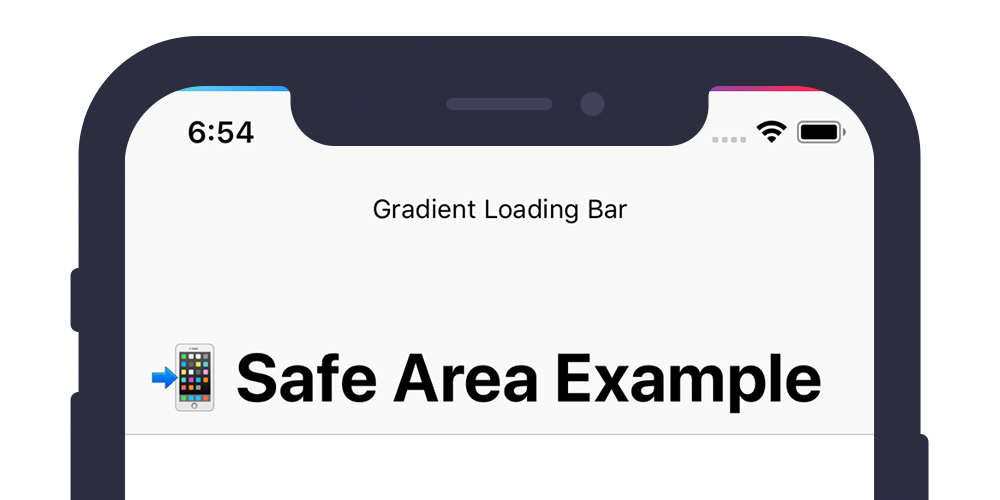
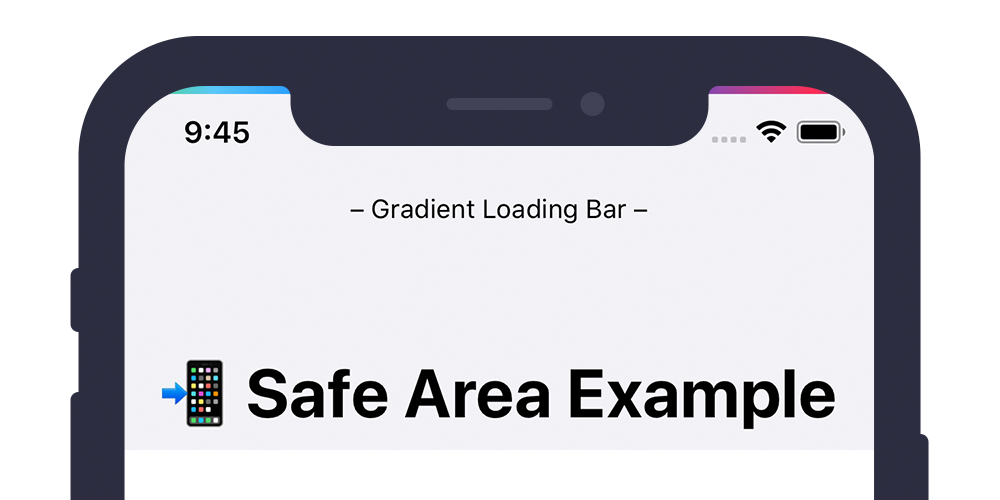
📝 :: Update screenshots and documentation with new `NotchGradientLoadingBar`

diff --git a/readme.md b/readme.md
@@ -143,6 +143,7 @@ let notchGradientLoadingBar = NotchGradientLoadingBar(
 )
 ```
 
+[![Example][notch-bar-example--thumbnail]][notch-bar-example]
 
 #### GradientActivityIndicatorView
 In case you don't want to add the loading bar onto the key-window, this framework provides the `GradientActivityIndicatorView`, which is a direct subclass of `UIView`. You can add the view to another view either inside the interface builder or programmatically.
@@ -199,8 +200,12 @@ GradientLoadingBar is available under the MIT license. See the LICENSE file for 
 [safe-area-example]: Assets/safe-area-example.png
 [safe-area-example--thumbnail]: Assets/safe-area-example--thumbnail.png
 
-[advanced-example]: Assets/advanced-example.png
-[advanced-example--thumbnail]: Assets/advanced-example--thumbnail.png
+[notch-example]: Assets/notch-example.png
+[notch-example--thumbnail]: Assets/notch-example--thumbnail.png
 
 [navigation-bar-example]: Assets/navigation-bar-example.png
 [navigation-bar-example--thumbnail]: Assets/navigation-bar-example--thumbnail.png
+
+
+[advanced-example]: Assets/advanced-example.png
+[advanced-example--thumbnail]: Assets/advanced-example--thumbnail.png
